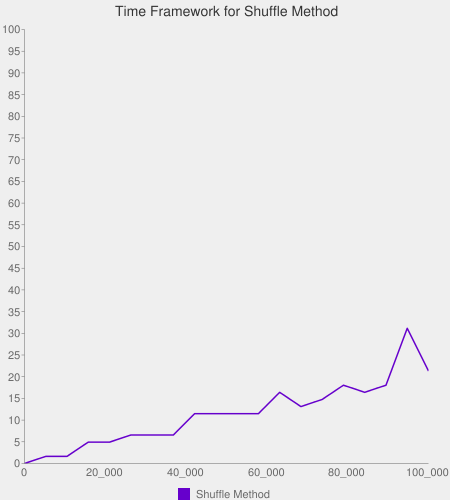
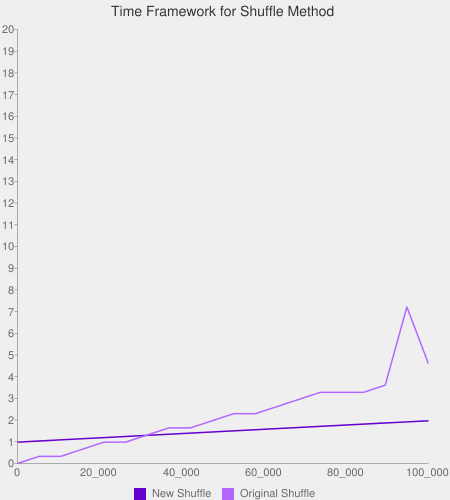
create my own shuffle method

diff --git a/lib/shuffle_method_time_frame.rb b/lib/shuffle_method_time_frame.rb
@@ -18,38 +18,55 @@ class Shuffle
   end
 
   def new_shuffle(array)
-    if array.length == 1
-      array
-    else
-      array.shuffle
+    shuffle_array = []
+
+    while array.length > 0 do
+      length = array.length - 1
+      index = rand(0..length)
+      shuffle_array << array[index]
+      array.delete_at(index)
     end
+    shuffle_array
   end
 
-  def graph
-    generate_graph = Gchart.new(
-      :type => 'line',
-      :size => '450x500',
-      :bar_colors => ['6600cc','b366ff'],
-      :title => "Time Framework for Shuffle Method",
-      :bg => 'EFEFEF',
-      :legend => ['Shuffle Method'],
-      :data => [shuffle_original],
-      :filename => 'images/shuffle_method_graph.png',
-      :stacked => false,
-      :legend_position => 'bottom',
-      :axis_with_labels => [['x'], ['y']],
-      :max_value => 20,
-      :min_value => 0,
-      :axis_labels => [["0|20_000|40_000|60_000|80_000|100_000"]],
-      )
+  # def new_shuffle_time
+  #   results = []
+  #   m = 5000
+  #   while m <= 100_000
+  #     time = Benchmark.measure do
+  #       array = Array(1..m).new_shuffle
+  #     end
+  #     m += 5_000
+  #     # takes the real time  and changes it from seconds to miliseconds
+  #     results.push(time.real * 1_000)
+  #   end
+  #   results
+  # end
 
-    generate_graph.file
+#   def graph
+#     generate_graph = Gchart.new(
+#       :type => 'line',
+#       :size => '450x500',
+#       :bar_colors => ['6600cc','b366ff'],
+#       :title => "Time Framework for Shuffle Method",
+#       :bg => 'EFEFEF',
+#       :legend => ['New Shuffle', 'Original Shuffle'],
+#       :data => [new_shuffle_time, shuffle_original],
+#       :filename => 'images/shuffle_method_graph.png',
+#       :stacked => false,
+#       :legend_position => 'bottom',
+#       :axis_with_labels => [['x'], ['y']],
+#       :max_value => 20,
+#       :min_value => 0,
+#       :axis_labels => [["0|20_000|40_000|60_000|80_000|100_000"]],
+#       )
 
-  end
+#     generate_graph.file
+#   end
 end
 
-a = Shuffle.new
-a.graph
+# a = Shuffle.new
+# a.graph
 
 
 

diff --git a/Readme.md b/Readme.md
@@ -1,6 +1,6 @@
 # ALGORITHM COMPLEXITY
 
-## SHUFFLING
+### SHUFFLING
 Mix all the elements in an array to get a random order
 
 ```
@@ -11,8 +11,8 @@ INPUT        | OUTPUT
 []           | error
 ```
 
-## REVERSE
+### REVERSE
 
-## FIND DUPLICATES
+### FIND DUPLICATES
 
-## MOST FREQUENT WORDS
+### MOST FREQUENT WORDS
